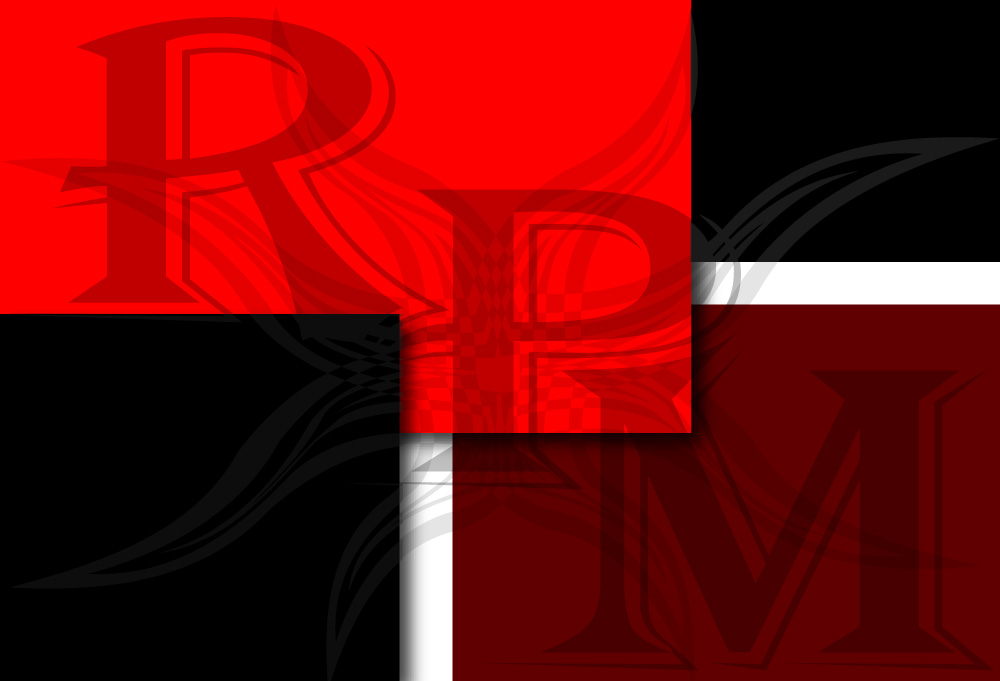
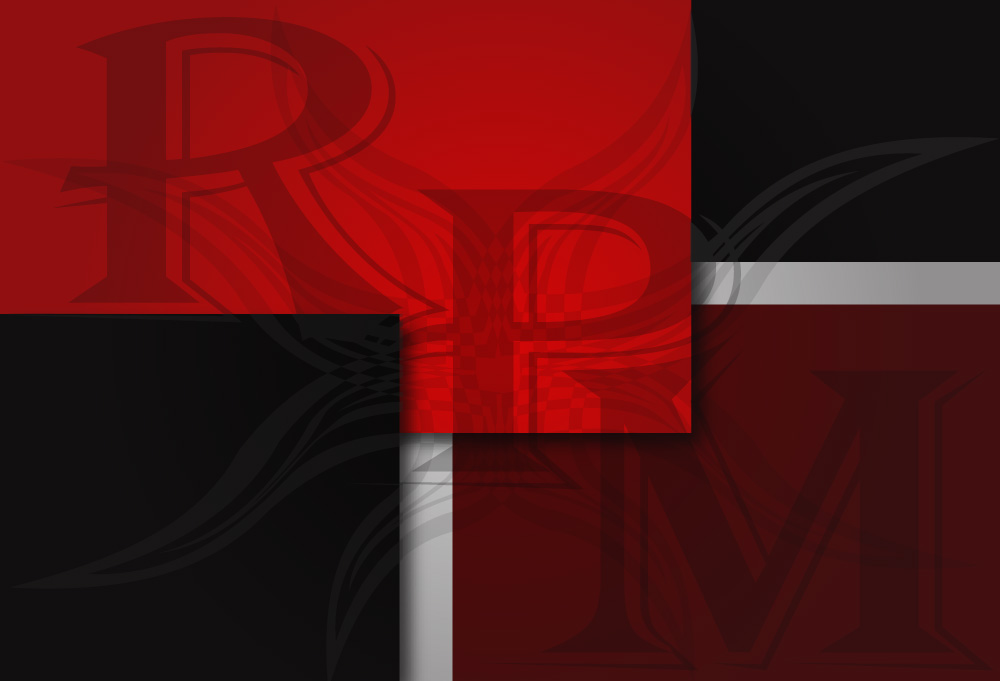
update

diff --git a/index.html b/index.html
@@ -92,14 +92,27 @@
 						<div class="aboutWrap">
 							<p>I'm all about making things better, safer, and more enjoyable.</p>
 							<p>If that doesn't work, let's at least not make things any worse.</p>
-							<br>
-							<p>If you stop and give it a real think, the very concept of life and existence will blow your mind.</p>
+						</div>
+						<div class="aboutWrap">
+							<p>If you stop and give it a real think, life will blow your mind.</p>
 							<p>If it doesn't, check you pulse.  You might be a corpse.</p>
+						</div>
+						<div class="aboutWrap">
 							<p>The chance to live and think and do things is so lucky.</p>
-							<p>It's too good to waste anything bad or mean or crooked.</p>
-							<br>
-							<P>This outlook is demonstrated in my studies, in my projects, in my attitude, in the time I spend with my family, when I party.</P>
-							<p>And I'm just looking for others like me who want to honor the gift of life by making it awesome!</p>
+							<p>It's too good to waste on anything bad or mean.</p>
+						</div>
+						<div class="aboutWrap">
+							<p>So let's try hard every day.</p>
+							<p>Let's try to make everyday a little better than the day before.</p>
+							<p>Let's be good to each other.</p>
+							<p>Let's create pleasing designs and elegant code and kick-ass projects.</p>
+						</div>
+						<div class="aboutWrap">
+							<p>I mean,</p>
+							<p>if we're going to bother getting out of bed,</p>
+							<p>and negotiating our way through each day,</p>
+							<p>why not make it a work of art?</p>
+							<p>Why not make it awesome?</p>
 						</div>
 						<q><span>The bad news is you're falling through the air,<br>no parachute, nothing to hang onto.<br>The good news is there's no ground.</span></q>
 						<cite>Chogyam Trungpa Rinpoche, <span>Buddhist, Sage, Bodhisattva</span></cite>

diff --git a/css/index.css b/css/index.css
@@ -266,7 +266,7 @@ section p {
 section:nth-of-type(1) {
 	background: url('../img/backgrounds/leoSm.jpg');
 	background-repeat: no-repeat;
-	background-size: cover;
+	background-size: 100% 100%;
 	background-attachment: fixed;
 }
 
@@ -308,7 +308,7 @@ section:nth-of-type(1) {
 section:nth-of-type(2) {
 	background: url('../img/backgrounds/rpmBackground.jpg');
 	background-repeat: no-repeat;
-	background-size: cover;
+	background-size: 100% 100%;
 	background-attachment: fixed;
 }
 
@@ -319,14 +319,17 @@ section:nth-of-type(2) h1 {
 .aboutWrap {
 	width: 95%;
 	max-width: 1000px;
-	margin: auto;
+	margin: 50px auto;
 	padding: 25px;
 	border-radius: 2.5px;
-	background: rgba(255,240,240, 0.5);
+	background: -webkit-linear-gradient(left, rgba(255,240,240,1), rgba(255,240,240,0.7), rgba(255,240,240,0.3), transparent);background: linear-gradient(to right, rgba(255,240,240,1), rgba(255,240,240,0.7), rgba(255,240,240,0.3), transparent);
+	-webkit-transition-duration: .5s;transition-duration: .5s;
 }
 
 .aboutWrap:active, .aboutWrap:focus, .aboutWrap:hover {
+	background: rgba(255,240,240, 0.7);
 	border: 1px solid white;
+	-webkit-transition-duration: .5s;transition-duration: .5s;
 }
 
 section:nth-of-type(2) q span {
@@ -334,8 +337,12 @@ section:nth-of-type(2) q span {
 }
 
 section:nth-of-type(2) p {
-	font-family: Georgia, serif;
-	max-width: 900px;
+	font-family: "Arial Black", Gadget, sans-serif;
+	max-width: 1000px;
+}
+
+section:nth-of-type(2) cite {
+	color: rgb(255,240,240);
 }
 
 /* END SECTION TWO ***********************/
@@ -588,7 +595,7 @@ footer p:nth-of-type(3) {
 	section:nth-of-type(2) {
 		background: url('../img/backgrounds/rpmBackground.jpg');
 		background-repeat: no-repeat;
-		background-size: cover;
+		background-size: 100% 100%;
 		background-attachment: fixed;
 	}
 
